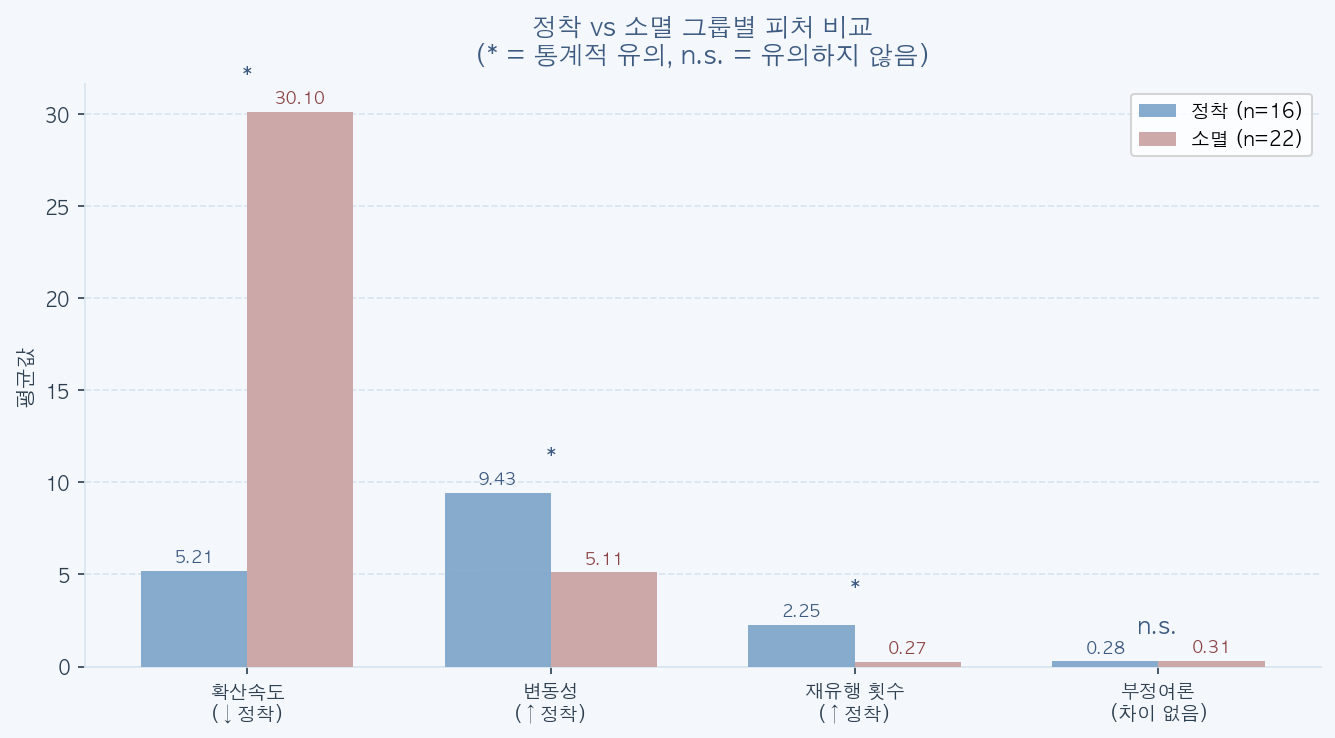
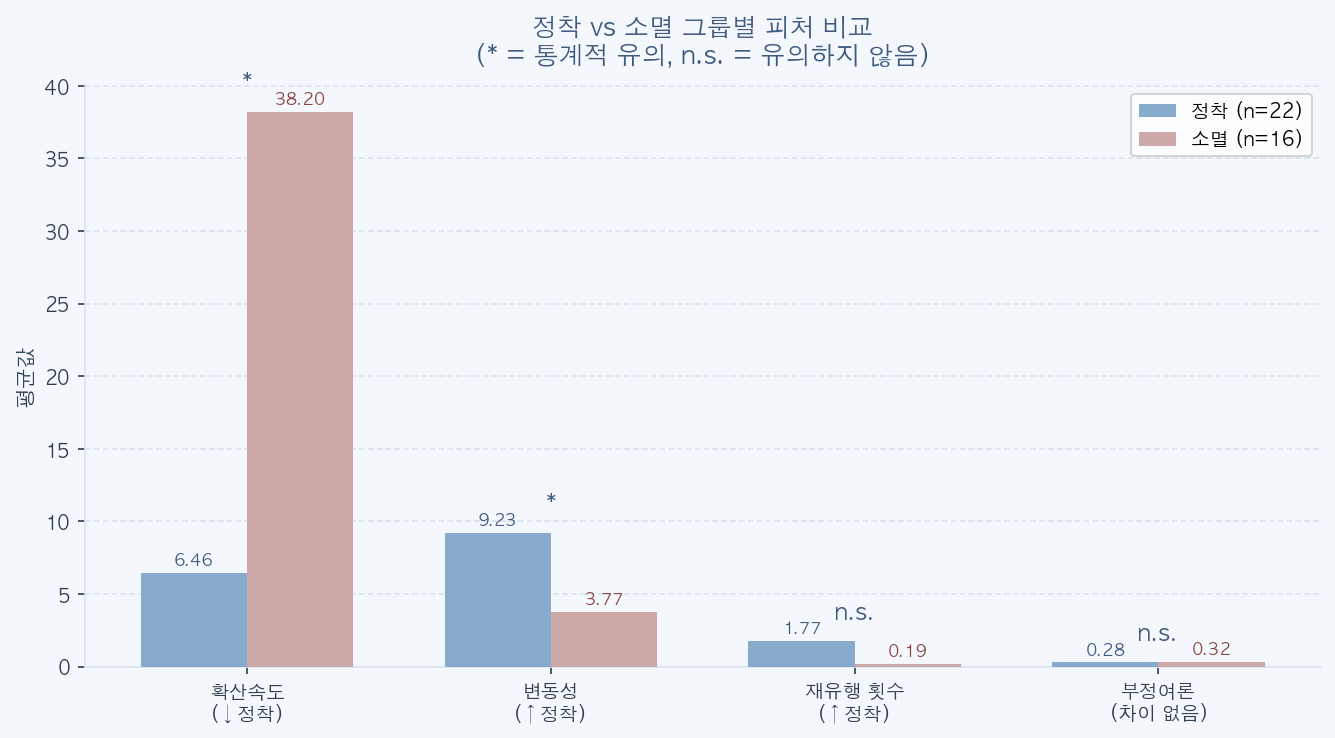
fix: 피크 탐지 단발 이상치 버그 수정 및 전체 파이프라인 재실행

diff --git a/src/analyze/visualize.py b/src/analyze/visualize.py
@@ -169,7 +169,7 @@ def fig_scatter():
     patch_s = mpatches.Patch(color=C_SETTLE, label=f"정착 (n={n_s})")
     patch_f = mpatches.Patch(color=C_FADE,   label=f"소멸 (n={n_f})")
 
-    style_ax(ax, "확산 속도 vs 지속성\n(급발진할수록 소멸, Cohen's d = -1.14)")
+    style_ax(ax, "확산 속도 vs 지속성\n(급발진할수록 소멸, Cohen's d = -1.54)")
     ax.set_xlabel("확산속도 (spread_speed: 높을수록 급발진)", color=C_TEXT, fontsize=10)
     ax.set_ylabel("피크 후 평균 검색량 (post_peak_avg)", color=C_TEXT, fontsize=10)
     ax.legend(handles=[patch_s, patch_f], loc="upper right", fontsize=9)
@@ -201,9 +201,9 @@ def fig_feature_compare():
     fig, ax = plt.subplots(figsize=(9, 5))
     fig.patch.set_facecolor(C_BG)
 
-    bars_s = ax.bar(x - w/2, settle, w, color=C_SETTLE, label="정착 (n=16)",
+    bars_s = ax.bar(x - w/2, settle, w, color=C_SETTLE, label="정착 (n=22)",
                     alpha=0.9, zorder=3)
-    bars_f = ax.bar(x + w/2, fade,   w, color=C_FADE,   label="소멸 (n=22)",
+    bars_f = ax.bar(x + w/2, fade,   w, color=C_FADE,   label="소멸 (n=16)",
                     alpha=0.9, zorder=3)
 
     # 값 표시
@@ -216,10 +216,12 @@ def fig_feature_compare():
         ax.text(bar.get_x() + bar.get_width()/2, h + 0.3,
                 f"{h:.2f}", ha="center", va="bottom", fontsize=8, color="#8B4444")
 
-    # 유의 표시
+    # 유의 표시 (|t|>2.03 ≈ p<0.05): spread_speed t=-4.47, volatility t=4.75 유의 /
+    #   surge_count t=1.79, neg_ratio t=-2.00 유의하지 않음
+    sig_map = {"spread_speed": "*", "volatility": "*",
+               "surge_count": "n.s.", "neg_ratio": "n.s."}
     for i, feat in enumerate(features):
-        sig = "*" if feat != "neg_ratio" else "n.s."
-        ax.text(i, max(settle[i], fade[i]) + 1.5, sig,
+        ax.text(i, max(settle[i], fade[i]) + 1.5, sig_map[feat],
                 ha="center", fontsize=11, color=C_DARK, fontweight="bold")
 
     ax.set_xticks(x)
@@ -238,8 +240,8 @@ def fig_feature_compare():
 # ==================================================
 def fig_importance():
     # 누수 없는 사전 지표만 (준-누수 volatility/surge_count/total_buzz/neg_ratio 제외)
-    labels_kr = ["확산속도", "사전 인지도", "숏폼 시대"]
-    scores    = [0.4887, 0.4717, 0.0396]
+    labels_kr = ["사전 인지도", "확산속도", "숏폼 시대"]
+    scores    = [0.6370, 0.3385, 0.0244]
     colors    = [C_DARK, C_DARK, C_SETTLE]
 
     idx = np.argsort(scores)
@@ -257,7 +259,7 @@ def fig_importance():
         ax.text(score + 0.005, bar.get_y() + bar.get_height()/2,
                 f"{score:.4f}", va="center", fontsize=9, color=C_TEXT)
 
-    style_ax(ax, "MLlib RandomForest 피처 중요도\n(CV 0.710 vs 기준선 0.579, n=38 해석용)")
+    style_ax(ax, "MLlib RandomForest 피처 중요도\n(CV 0.867 vs 기준선 0.579, n=38 해석용)")
     ax.set_xlabel("중요도 점수", color=C_TEXT, fontsize=10)
     ax.grid(axis="x", color=C_GRID, linewidth=0.8, linestyle="--")
     ax.grid(axis="y", visible=False)
@@ -272,8 +274,8 @@ def fig_importance():
 # ==================================================
 def fig_shortform():
     eras   = ["숏폼 이전\n(~2020)", "숏폼 이후\n(2021~)"]
-    settle = [4,  8]
-    fade   = [13, 7]
+    settle = [7, 9]
+    fade   = [8, 6]
     total  = [s + f for s, f in zip(settle, fade)]
     rate   = [s / t * 100 for s, t in zip(settle, total)]
 
@@ -323,6 +325,64 @@ def fig_shortform():
     print("저장: 05_shortform.png")
 
 # ==================================================
+# 그림 6: 피크 기준 전/후 분할 (분석 방법론 시각화)
+#   왜 피크 기준으로 데이터를 나눴는가 = 누수 방지 핵심 설계
+# ==================================================
+def fig_peak_split():
+    feats = load_features()
+    if feats is None:
+        print("경고: fnb_features_export.csv 없음 — 06_peak_split.png 건너뜀")
+        return
+
+    # 정착 대표(불닭볶음면) / 소멸 대표(탕후루)
+    targets = [
+        ("불닭볶음면", C_SETTLE, "피크 후 유지 → 정착"),
+        ("탕후루",     C_FADE,   "피크 후 급락 → 소멸"),
+    ]
+
+    fig, axes = plt.subplots(1, 2, figsize=(13, 5))
+    fig.patch.set_facecolor(C_BG)
+
+    for ax, (kw, after_color, desc) in zip(axes, targets):
+        df = load_keyword(kw)
+        if df is None:
+            continue
+        x = df["ym"].dt.to_timestamp()
+        y = df["ratio"].values
+
+        # 피크 날짜는 분석 피처테이블 값을 그대로 사용 (시각화-분석 일치)
+        row = feats[feats["keyword"] == kw]
+        peak = pd.to_datetime(row["peak_date"].values[0])
+
+        ax.plot(x, y, color=C_DARK, linewidth=2.0, zorder=4)
+
+        # 피크 전(확산) / 후(정착·소멸) 음영
+        x0, x1 = x.min(), x.max()
+        ax.axvspan(x0, peak,  color=C_LIGHT,    alpha=0.45, zorder=1)
+        ax.axvspan(peak, x1,  color=after_color, alpha=0.30, zorder=1)
+        ax.axvline(peak, color=C_DARK, linestyle="--", linewidth=1.4, zorder=5)
+
+        # 영역 레이블
+        ymax = float(y.max())
+        ax.text(x0 + (peak - x0) / 2, ymax * 0.95, "피크 이전\n(확산)",
+                ha="center", va="top", fontsize=9, color=C_DARK, fontweight="bold")
+        ax.text(peak + (x1 - peak) / 2, ymax * 0.95, "피크 이후",
+                ha="center", va="top", fontsize=9, color=C_TEXT, fontweight="bold")
+        ax.annotate("피크", (peak, ymax), textcoords="offset points",
+                    xytext=(5, -2), fontsize=8, color=C_DARK)
+
+        style_ax(ax, f"{kw} — {desc}")
+        ax.set_ylabel("검색량 지수 (DataLab)", color=C_TEXT, fontsize=9)
+
+    fig.suptitle("피크를 기준으로 '확산'과 '정착/소멸'을 분리해 분석",
+                 fontsize=13, fontweight="bold", color=C_DARK, y=1.02)
+
+    plt.tight_layout()
+    plt.savefig(f"{OUT_DIR}/06_peak_split.png", dpi=150, bbox_inches="tight")
+    plt.close()
+    print("저장: 06_peak_split.png")
+
+# ==================================================
 # 실행
 # ==================================================
 if __name__ == "__main__":
@@ -332,4 +392,5 @@ if __name__ == "__main__":
     fig_feature_compare()
     fig_importance()
     fig_shortform()
+    fig_peak_split()
     print("\n시각화 완료!")

diff --git a/src/pipeline/label.py b/src/pipeline/label.py
@@ -4,7 +4,7 @@ sys.stdout = io.TextIOWrapper(sys.stdout.buffer, encoding='utf-8')
 
 from pyspark.sql import SparkSession
 from pyspark.sql.functions import (
-    col, avg, count, lit, months_between, row_number, greatest,
+    col, avg, count, lit, months_between, row_number, greatest, datediff,
     min as spark_min, max as spark_max, round as spark_round
 )
 from pyspark.sql.window import Window
@@ -22,6 +22,8 @@ spark.sparkContext.setLogLevel("WARN")
 RETENTION_THRESHOLD = 0.5   # post_peak_avg / pre_peak_avg >= 0.5
 ABS_THRESHOLD       = 10.0  # post_peak_avg >= 10 (DataLab 100점 스케일 기준)
 PRE_PEAK_FLOOR      = 1.0   # 갑작스럽게 등장한 키워드의 pre_peak=0 보정
+SMOOTH_DAYS         = 15    # 피크 탐지용 이동평균 반경(±15일 = 31일 중심)
+PEAK_FRAC           = 0.8   # 첫 주요 피크 기준: 평활 최댓값의 80% 첫 도달 시점
 MIN_POST_MONTHS     = 12.0  # 피크 이후 최소 12개월 데이터가 있어야 라벨 신뢰
 MIN_PRE_MONTHS      = 1.0   # 피크 이전 최소 1개월 데이터가 있어야 라벨 신뢰
 
@@ -36,9 +38,25 @@ bounds_df = datalab.groupBy("keyword").agg(
 )
 
 # 키워드별 피크 날짜 + ratio (Spark 2.x 호환 Window 방식)
-print("\n=== [2] 키워드별 피크 계산 ===")
-w = Window.partitionBy("keyword").orderBy(col("ratio").desc(), col("date").desc())
-peak_df = datalab.withColumn("rn", row_number().over(w)) \
+# 피크 정의 = '첫 주요 피크'(상승의 끝):
+#   1) 단발 이상치(DataLab 하루짜리 글리치) 방어 위해 31일 중심 이동평균으로 평활
+#   2) 평활값이 키워드별 최댓값의 PEAK_FRAC(80%)에 처음 도달한 날을 피크로 지정
+#   - 일별 argmax는 하루 스파이크에 속음 (예: 탕후루 2019 글리치 vs 2023 바이럴)
+#   - 글로벌 최댓값은 다파동 정착 제품(불닭)이 최신 파동을 피크로 잡아 post 구간을 왜곡
+#   - 첫 주요 피크는 '상승→피크→정착/소멸' 생애주기 정의에 부합
+print("\n=== [2] 키워드별 피크 계산 (31일 이동평균 + 첫 주요 피크) ===")
+# 날짜를 일수로 변환 (rangeBetween용)
+dl = datalab.withColumn("day_num", datediff(col("date"), lit("2016-01-01")).cast("long"))
+# ±SMOOTH_DAYS(31일 중심) 이동평균
+w_roll = Window.partitionBy("keyword").orderBy("day_num").rangeBetween(-SMOOTH_DAYS, SMOOTH_DAYS)
+dl = dl.withColumn("ratio_smooth", avg("ratio").over(w_roll))
+# 키워드별 평활 최댓값
+smax_df = dl.groupBy("keyword").agg(spark_max("ratio_smooth").alias("smax"))
+# 평활값이 최댓값의 80% 이상이 되는 '첫' 날 = 첫 주요 피크
+w = Window.partitionBy("keyword").orderBy(col("date").asc())
+peak_df = dl.join(smax_df, "keyword") \
+    .filter(col("ratio_smooth") >= col("smax") * lit(PEAK_FRAC)) \
+    .withColumn("rn", row_number().over(w)) \
     .filter(col("rn") == 1) \
     .select(
         col("keyword"),

diff --git a/src/analyze/ml.py b/src/analyze/ml.py
@@ -150,11 +150,14 @@ cv = CrossValidator(
 cv_model = cv.fit(data)
 cv_acc = cv_model.avgMetrics[0]
 
-base_rate = data.filter(col("label_num") == 0).count() / float(n_total)  # 다수클래스(소멸) 비율
+# 기준선 = 다수클래스 비율 (전부 다수클래스로 찍었을 때 정확도)
+cnt0 = data.filter(col("label_num") == 0).count()
+cnt1 = n_total - cnt0
+base_rate = max(cnt0, cnt1) / float(n_total)
 print("\n[정확도]")
-print("  학습 정확도(과적합):   {:.3f}".format(train_acc))
-print("  5-fold CV 정확도:      {:.3f}".format(cv_acc))
-print("  기준선(전부 소멸 찍기): {:.3f}".format(base_rate))
+print("  학습 정확도(과적합):      {:.3f}".format(train_acc))
+print("  5-fold CV 정확도:         {:.3f}".format(cv_acc))
+print("  기준선(다수클래스 찍기):  {:.3f}".format(base_rate))
 
 # --- LogisticRegression 표준화 계수 (방향성) ---
 scaler = StandardScaler(inputCol="features", outputCol="sfeatures",

diff --git a/README.md b/README.md
@@ -35,26 +35,28 @@
   - 데이터 누수 방지: 라벨을 직접 정의하는 사후 지표(post_peak_avg, retention_ratio 등) 및 전 기간 집계로 사후 정보가 섞이는 지표(volatility, surge_count 등)를 ML 피처에서 모두 제외
   - 수렴타당도 검증: 서로 다른 두 지표(spread_speed ↔ rise_days)가 같은 결론을 가리키는지 교차 확인
   - 아웃라이어 강건성: Pearson 대신 순위기반 Spearman 병기 (특정 데이터 임의 제거 회피)
+  - 피크 탐지 강건성: 일별 최댓값은 DataLab 단발 글리치에 취약 → 31일 이동평균 후 '첫 주요 피크'(상승의 끝)로 정의 (탕후루 2019 글리치 vs 2023 실제 바이럴 구분)
   - 최신성 교란 통제: 피크 후 12개월 데이터 확보 여부(reliable 플래그)로 재집계
   - 효과크기(Cohen's d) + t검정 + 5-fold CV + 기준선 병기
 
 
 ## 3. 핵심 결과
 
-- Q1 확산속도 — 정착 5.21 vs 소멸 30.10 (Cohen's d=-1.14, t=-3.47, 유의) → 천천히 형성될수록 정착, 급발진할수록 소멸
-- Q1 검증(생애주기) — 피크 도달 중앙값 정착 168일 vs 소멸 35일. 독립 지표가 같은 결론 → 수렴타당도 확보
-- Q2 부정여론 — 정착 0.28 vs 소멸 0.31 (d=-0.46, 유의하지 않음) → 부정여론은 결정적 요인이 아님 (표본 부족으로 미확정)
-- Q3 숏폼 전후 — 숏폼 이전 정착률 24% vs 이후 53% (신뢰 라벨 기준). recency 교란(최신 키워드는 아직 소멸할 시간이 없음)을 통제해도 차이는 유지되나 인과관계는 불명확 → 판단 보류
-- Q4 노출량 — 정착 6,470 vs 소멸 7,690 (유의하지 않음) → 많이 회자된다고 살아남지 않음
-- rise vs fall — Spearman = -0.02 (n=28) → 확산 속도와 소멸 속도는 독립 ("빨리 뜨면 빨리 죽는다" 통념 기각)
-- MLlib 피처중요도 — spread_speed 0.49 / pre_peak_avg 0.47 / shortform_era 0.04 (CV 0.710 vs 기준선 0.579, 누수 없는 사전 지표만)
+- Q1 확산속도 — 정착 6.46 vs 소멸 38.20 (Cohen's d=-1.54, t=-4.47, 유의), 확산속도↔지속성 상관 -0.61 → 천천히 형성될수록 정착, 급발진할수록 소멸
+- Q1 검증(생애주기) — 피크 도달 중앙값 정착 139일 vs 소멸 25일. 독립 지표가 같은 결론 → 수렴타당도 확보
+- Q2 부정여론 — 정착 0.28 vs 소멸 0.32 (d=-0.66, t=-2.00), 부정여론↔쇠퇴속도 상관 0.50(신뢰 키워드) → 약한 보조 신호는 있으나 경계선(표본 한계로 단정 보류)
+- Q3 숏폼 전후 — 신뢰 키워드 기준 숏폼 이전 정착률 47% vs 이후 60%. recency 교란(최신 키워드는 아직 소멸할 시간이 없음)을 통제해도 차이는 유지되나 인과관계는 불명확 → 판단 보류
+- Q4 노출량 — 정착 7,087 vs 소멸 7,298 (d=-0.08, 유의하지 않음) → 많이 회자된다고 살아남지 않음
+- rise vs fall — Spearman = 0.02 → 확산 속도와 소멸 속도는 독립 ("빨리 뜨면 빨리 죽는다" 통념 기각)
+- MLlib 피처중요도 — pre_peak_avg 0.64 / spread_speed 0.34 / shortform_era 0.02 (CV 0.867 vs 기준선 0.579, 누수 없는 사전 지표만)
 
-종합: 트렌드의 생애주기를 가르는 것은 부정여론이나 노출량이 아니라 유행이 형성되는 속도(점진 vs 급발진)였다.
+종합: 트렌드의 생애주기를 가르는 것은 노출량이 아니라 유행이 형성되는 속도(점진 vs 급발진)와 피크 직전까지 쌓인 사전 인지도였다. 부정여론은 약한 보조 신호에 그쳤다.
 
 ### 분석의 한계
 
 - 표본 n=38 — MLlib는 예측 모델이 아니라 변수 중요도 해석용이며 과적합 전제
 - ML 피처는 피크 이전 데이터만으로 산출되는 사전 지표(spread_speed, pre_peak_avg, shortform_era)만 사용. volatility·surge_count·total_buzz·neg_ratio는 전 기간 집계(준-누수)로 제외
+- 라벨은 '검색 지속성'을 측정 → 문화적 정착과 다를 수 있음. 마라탕·로제떡볶이처럼 일상 음식으로 자리잡았으나 검색 관심은 식은 경우는 '소멸'로 분류됨(정착할수록 덜 검색하는 특성)
 - 라벨 임계값(retention≥0.5, post≥10)은 자의적 — 컷오프에 따라 일부 경계 키워드 라벨이 바뀔 수 있음
 - 노출량은 키워드 나이에 교란 — 오래된 트렌드일수록 누적 문서가 많음
 
@@ -108,6 +110,8 @@ API 키 유무에 따라 자동 분기:
 [전처리] Spark — 결측 처리, 타입 변환, year 파생, 텍스트 정제
                               │
 [감성]  KNU 감성사전(14,851단어) × SO-CAL 공식 → sentiment 점수 (-1.0~1.0)
+                              │
+[피크]  31일 이동평균 후 '첫 주요 피크'(평활 최댓값의 80% 첫 도달) — 단발 이상치 방어
                               │
 [라벨링] retention_ratio = post피크평균 / pre피크평균
         retention ≥ 0.5 AND post평균 ≥ 10 → 정착, else 소멸
